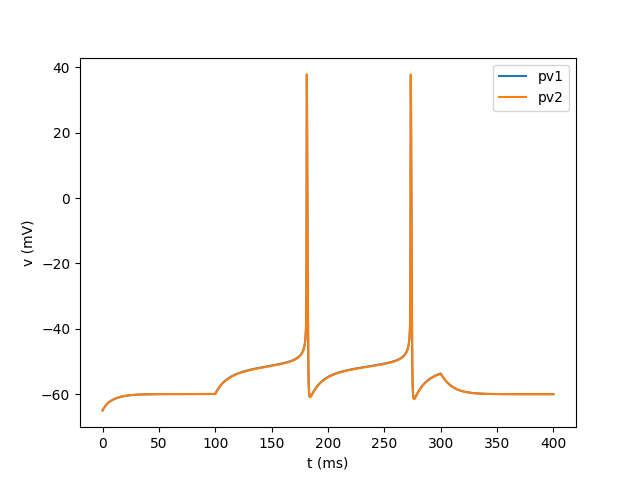
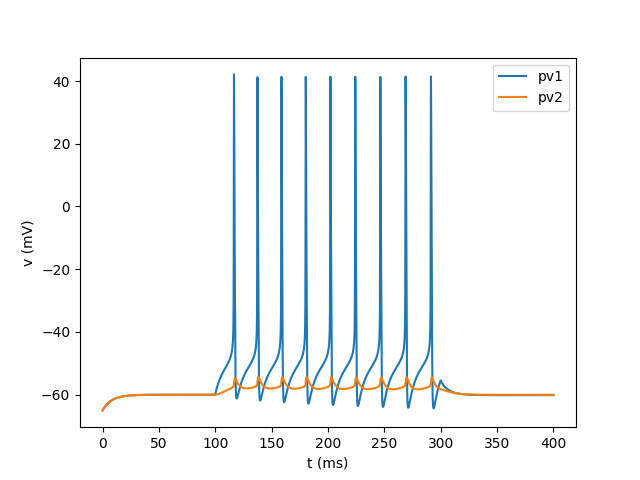
set parameters

diff --git a/NCBC/src/main.py b/NCBC/src/main.py
@@ -1,7 +1,8 @@
 import matplotlib.pyplot as plt
-from cells import BasketCell
 from neuron import h
 from neuron.units import ms, mV
+
+from cells import BasketCell
 
 if __name__ == "__main__":
     pv1 = BasketCell(0)
@@ -10,9 +11,9 @@ if __name__ == "__main__":
     gap1 = h.gap(pv1.soma(0.5))
     gap2 = h.gap(pv2.soma(0.5))
 
-    gap1.r = 1
+    gap1.r = 2e2
     gap1.delay = 5
-    gap2.r = 1
+    gap2.r = 2e2
     gap2.delay = 5
 
     h.setpointer(pv2.soma(0.5)._ref_v, "v_pair", gap1)
@@ -22,7 +23,7 @@ if __name__ == "__main__":
 
     stimulus.delay = 100 * ms
     stimulus.dur = 200 * ms
-    stimulus.amp = 0.2  # nA
+    stimulus.amp = -0.2  # nA
 
     pv1_v = h.Vector().record(pv1.soma(0.5)._ref_v)
     pv2_v = h.Vector().record(pv2.soma(0.5)._ref_v)
@@ -38,4 +39,4 @@ if __name__ == "__main__":
     ax.set(xlabel="t (ms)", ylabel="v (mV)")
     ax.legend()
 
-    plt.savefig("gap_junction.png")
+    plt.savefig("gap_junction_negative.png")
